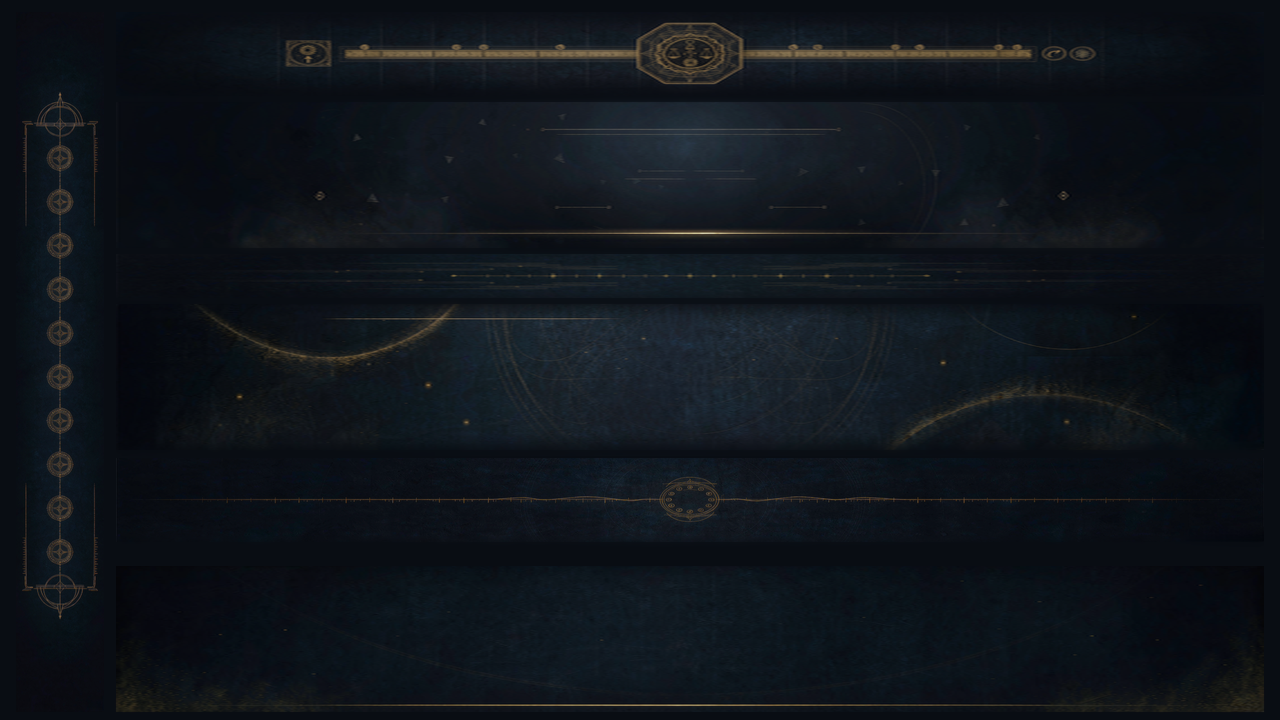
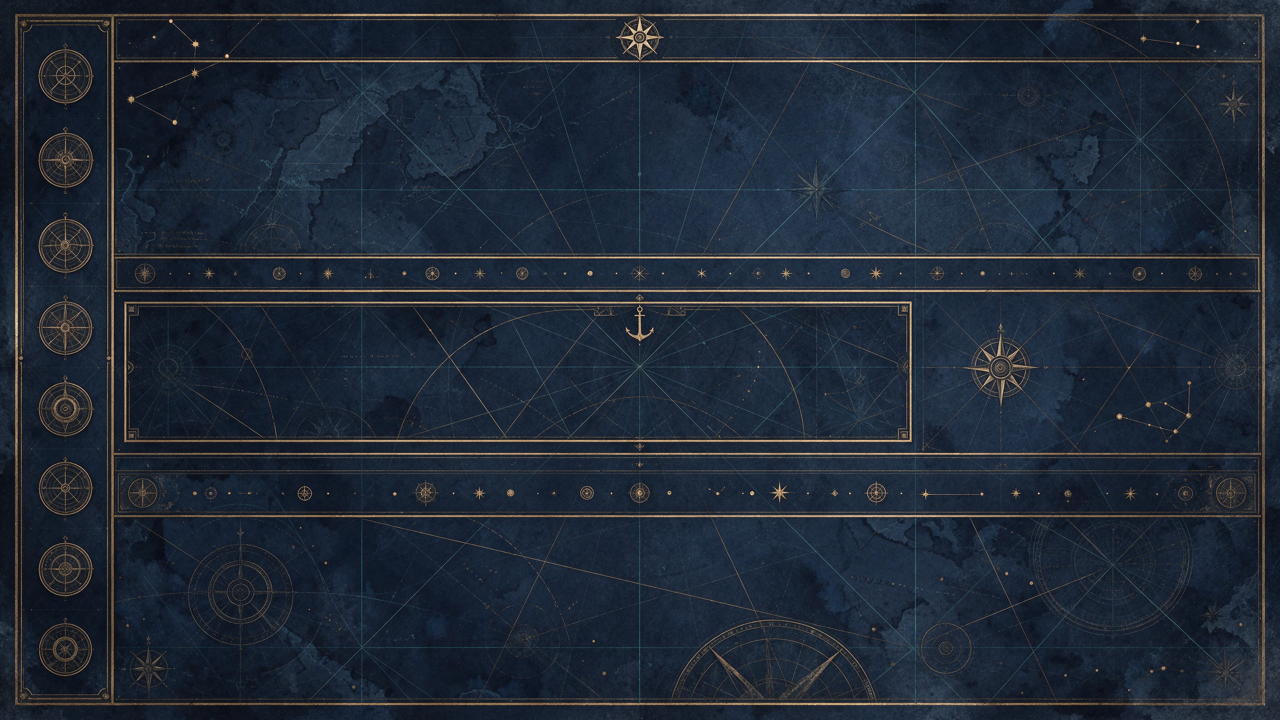
feat(ui): 对局页内容层背景换成科学星图结构框架
桌面 1280×720 与手机 960×540 各出一张，分区线按 ui-wireframe 实测控件
矩形对齐，替换旧黄铜版分区图；出图提示词与实测偏差写入
page-background-prompts.md §3.1、§5，素材索引 §2.1.1–§2.3 同步。

diff --git a/docs/current/technical/client/page-background-prompts.md b/docs/current/technical/client/page-background-prompts.md
@@ -9,7 +9,7 @@
 | --- | --- |
 | 服务 | EvoLink CLI，模型 `doubao-seedream-5.5` |
 | 外层氛围图 | `size=1:1`、`quality=2K`，出图后缩放到 512×512 |
-| 结构框架图 | `size=16:9`、`quality=2K`，出图后缩放到 1280×720；大厅手机档位缩放到 960×540 |
+| 结构框架图 | `size=16:9`、`quality=2K`，出图后缩放到 1280×720；大厅与对局的手机档位缩放到 960×540 |
 | 出图日期 | 2026-11-27 |
 | 单张成本 | 约 $0.028 |
 
@@ -53,6 +53,8 @@ Flat page background for a dark strategy game menu, exact 16:9 composition. Deep
 | 排行榜 | `one horizontal band across the top 6 percent of the height; below it a thin status strip of 3 percent of the height; then one large open framed region down to the bottom.` |
 | 个人主页 | `one horizontal band across the top 6 percent of the height; below it a thin strip of 3 percent; then one large open framed region down to the bottom.` |
 | 账号 | `one horizontal band across the top 6 percent of the height; below it a tall centred form column occupying the central 62 percent of the width, with faint horizontal guide rules every 12 percent of its height; empty margins on both sides.` |
+| 对局（桌面） | 见 §3.1，提示词为独立全文，不套用模板抬头与尾句 |
+| 对局（手机） | 见 §3.1，960×540 同构重排，独立出图 |
 
 大厅手机档位（960×540）单独出图，`{layout}` 为：
 
@@ -60,7 +62,21 @@ Flat page background for a dark strategy game menu, exact 16:9 composition. Deep
 no outer margin, the frame runs to the edges; one large empty framed area occupying the left 70 percent of the width from the very top to 90 percent of the height; one vertical column on the right 30 percent of the width, divided by thin gold rules into four stacked rectangles; one thin horizontal band across the bottom 8 percent of the height spanning the full width.
 ```
 
-对局页不重出结构框架，沿用既有 `bg_game_desktop.png` / `bg_game_phone.png`；只新增外层 `bg_game.png`。
+### 3.1 对局页结构框架（桌面 / 手机）
+
+对局页分区最多，提示词单独成文：抬头由 `a dark strategy game menu` 改为 `a dark strategy game board`，保留 `LAYOUT, strictly observed` 与其后的禁止项，尾句 `The artwork must read as a quiet structural frame behind dense UI.` 省略。两张同批提交（合并报价 2 张，合计 $0.032 / 2.176 积分）。
+
+桌面（`bg_game_desktop.png`，1280×720）：
+
+```text
+Flat page background for a dark strategy game board, exact 16:9 composition. Deep indigo navy nautical chart paper (#0a1524 to #122a42), faint engraved latitude and longitude grid across the whole surface, thin muted cyan and antique gold hairlines, subtle watercolor staining, aged paper texture. LAYOUT, strictly observed: a narrow vertical strip on the far left from 1.5 to 8 percent of the width, running from 2 to 97 percent of the height, framed by a thin double gold rule and carrying a column of small circular medallions; a wide central column from 9 to 99 percent of the width, split by thin gold rules into five stacked bands: a tall upper band from 2 to 34 percent of the height, a narrow strip from 35 to 41 percent, a framed arena band from 42 to 62 percent, a short band from 64 to 75 percent, and a deep bottom band from 76 to 99 percent; a slim utility bar across the top from 1.5 to 5 percent of the height with a small octagonal emblem at its centre. A few tiny constellation dots and small compass motifs in empty corners. Very low contrast, muted, quiet. NO text, NO letters, NO numbers, NO characters, NO creatures, NO UI buttons, NO icons, NO bright highlights, NO glowing center, NO vignette.
+```
+
+手机（`bg_game_phone.png`，960×540）：
+
+```text
+Flat page background for a dark strategy game board, exact 16:9 composition. Deep indigo navy nautical chart paper (#0a1524 to #122a42), faint engraved latitude and longitude grid across the whole surface, thin muted cyan and antique gold hairlines, subtle watercolor staining, aged paper texture. LAYOUT, strictly observed: a slim utility bar across the top from 1 to 7 percent of the height; a narrow vertical strip on the far left from 0.5 to 10 percent of the width, running from 8 to 99 percent of the height, framed by a thin double gold rule with a column of small circular medallions; a wide central column from 10.5 to 99 percent of the width, split by thin gold rules into five stacked bands: a tall upper band from 9 to 41 percent of the height, a narrow strip from 42 to 47 percent, a framed arena band from 48 to 67 percent, a short band from 68 to 82 percent, and a bottom hand band from 83 to 99 percent. A few tiny constellation dots and small compass motifs in empty corners. Very low contrast, muted, quiet. NO text, NO letters, NO numbers, NO characters, NO creatures, NO UI buttons, NO icons, NO bright highlights, NO glowing center, NO vignette.
+```
 
 ## 4. 后处理与筛选
 
@@ -74,3 +90,5 @@ no outer margin, the frame runs to the edges; one large empty framed area occupy
 - 排行榜内层图多出一条约 15% 高度处的装饰横线，落在列表区上部；不影响操作，但重出时应收紧「top 6 percent + 3 percent」的表述。
 - 卡牌图鉴、账号的内层图在底角有小型装饰框，属可接受的点缀。
 - 大厅手机档位与对局页按设备档位单独取图；其余页面在 960×540 下由 1280×720 等比缩放，分区比例偏差约 1% 以内，未单独出图。
+- 对局桌面图（1280×720）：顶栏带实际画到 2.1–8.4%，工具条只有 1.7–5.3%，多出的一条金线落在商店区上部；河流带下沿在 40.3%（应为 41.4%）；棋盘带 42.0–61.3% 与 42.2–62.5% 基本对齐；英雄带内多出两条装饰线（63.6–68.5% 徽记横带、71.6% 单线），但 63.6% 与 76.4% 两条边界线与 HeroRow、HandStrip 对齐；左栏内边线在 8.7%（应为 8.1%）。棋盘带内另有约 10.5–71% 宽的装饰框，落在棋盘左三分之二。
+- 对局手机图（960×540）：顶栏 1.5–6.3% 对齐良好；商店区没有 9.4% 顶线与 40.9% 底线，只与顶栏分开，商店靠自身面板成区；河流带整体下移约 1pp，棋盘带下沿高约 1.8pp，英雄带起线在 69.7%（应为 67.6%，为全图最大偏差），手牌带上沿高约 1.2pp；左缘竖栏只有 1.2–4.4% 宽，窄于 0.6–9.8% 的座位栏，徽记列会被不透明座位栏盖住，中央列从约 11% 起。

diff --git a/docs/current/technical/client/image-asset-index.md b/docs/current/technical/client/image-asset-index.md
@@ -40,14 +40,14 @@
 
 **外层构图**：512×512，均匀分布的微弱星点与星座线，四周亮度一致；无主体、无边框、无罗盘、无方向性结构，任意位置与比例裁切都成立。
 
-**内层构图**：精确 1280×720（大厅手机档位 960×540），分区边界按该页真实控件矩形绘制，整张拉伸不裁切；不写文字、不画控件、不放高对比主体。
+**内层构图**：精确 1280×720（大厅与对局的手机档位 960×540），分区边界按该页真实控件矩形绘制，整张拉伸不裁切；不写文字、不画控件、不放高对比主体。
 
 | 页面 | 外层母题 | 内层分区 |
 | --- | --- | --- |
 | 登录 | 晨星与薄雾 | 中央 34% 宽竖框 + 顶部横饰 |
 | 大厅 | 北极星 | 左 66% 大框 + 右 28% 四段 + 底 6% 操作条 |
 | 房间等待区 | 猎户座 | 顶部状态条 + 4×2 座位矩阵 + 底部操作条 |
-| 对局 | 天狼星与猎犬座 | 沿用既有分区图（左座位栏、舞台、手牌区） |
+| 对局 | 天狼星与猎犬座 | 左座位栏 + 顶工具条 + 商店/选秀带/棋盘/英雄/手牌五段（手机档位另出 960×540） |
 | 结算 | 天秤座 | 中央 60% 宽竖框，内部分头/身/尾三段 |
 | 卡牌图鉴 | 天琴座 | 顶部 6% 工具条 + 整块网格区 |
 | 排行榜 | 猎户腰带 | 顶部 6% 头部 + 3% 状态条 + 列表区 |
@@ -62,15 +62,16 @@
 
 **画面目的**：把一局对局的纵向分区画在底图上，让左栏、中央舞台与底部区域在视觉上各自成区；控件与卡面叠在上面，底图只提供结构线与氛围。
 
-**构图**（自上而下）：
+**构图**（自上而下，百分比为该图纵向位置）：
 
-- 顶部横条：横贯全宽的黄铜金轨道与节点，中央一枚八角徽章，右端两个圆形按钮槽，左端一枚小徽记
-- 左缘：竖向装饰轨道，串一排圆形徽记，衬托左侧座位栏
-- 上部大区：横向长窗式面板，细金描边、稀疏星点
-- 中部：窄隔离带，带弧形线稿
-- 下部大区：下沉的竞技区，圆形弧线与金色尘点
-- 分隔线：横贯细线，中央一枚小徽章
-- 底部：暗色底色区，左下与底边有金色晕染
+- 顶部窄横条 2.1–8.4%：细金双线，中央一枚小八角徽记，衬托 `GameTools`
+- 左缘竖栏 1.3–8.7%：细金双框内串一排圆形罗盘徽记，衬托 `PlayersPanel`
+- 上部大区（商店）8.4–35.7%：开阔星图，无分隔
+- 窄隔离带 35.7–40.3%：一行小徽记与星点，对应 `RecruitRiver`
+- 棋盘带 42.0–62.9%：双线描边的大框 + 锚形纹，左侧另有约 10.5–71% 宽的装饰框
+- 英雄带 63.6–75.3%：63.6–68.5% 一条徽记横带，71.6% 一条细线
+- 手牌带 76.4–97.9%：开阔星图，左下与底边有罗盘纹
+- 分隔线：横贯细金线，中央一枚小徽章
 
 **重新生成**：必须精确 1280×720；分区边界位置不可移动，否则会与页面上的分区错位。不写文字、不放高对比主体。手机版是重新布局的同构版本，不能由本图裁切或缩放得到。
 
@@ -80,7 +81,7 @@
 
 **画面目的**：与桌面版承担同一套分区框架，按 960×540 重新排布比例，保证手机档位的控件仍落在对应区域内。
 
-**构图**：顶部横条、左缘徽记轨道、上部窗口面板、中部隔离带、下部竞技区、中央小徽章分隔线、底部手牌区，元素与桌面版一一对应，纵向按 540 重排、横向按 960 收窄。
+**构图**：顶部窄横条 1.5–6.3%（中央小八角徽记）、左缘竖栏 1.2–4.4%（罗盘徽记列）、商店大区 6.3–42.4%、窄隔离带 42.4–48.4%、棋盘带 48.4–65.1%（双线框 + 左侧装饰框）、英雄带 69.7–81.2%、手牌带 81.2–98.4%；元素与桌面版一一对应，纵向按 540 重排、横向按 960 收窄。
 
 **重新生成**：必须精确 960×540，与桌面版同批出图、各自出图；不通过裁切或缩放桌面版替代，否则分区会与手机档位布局错位。
 
